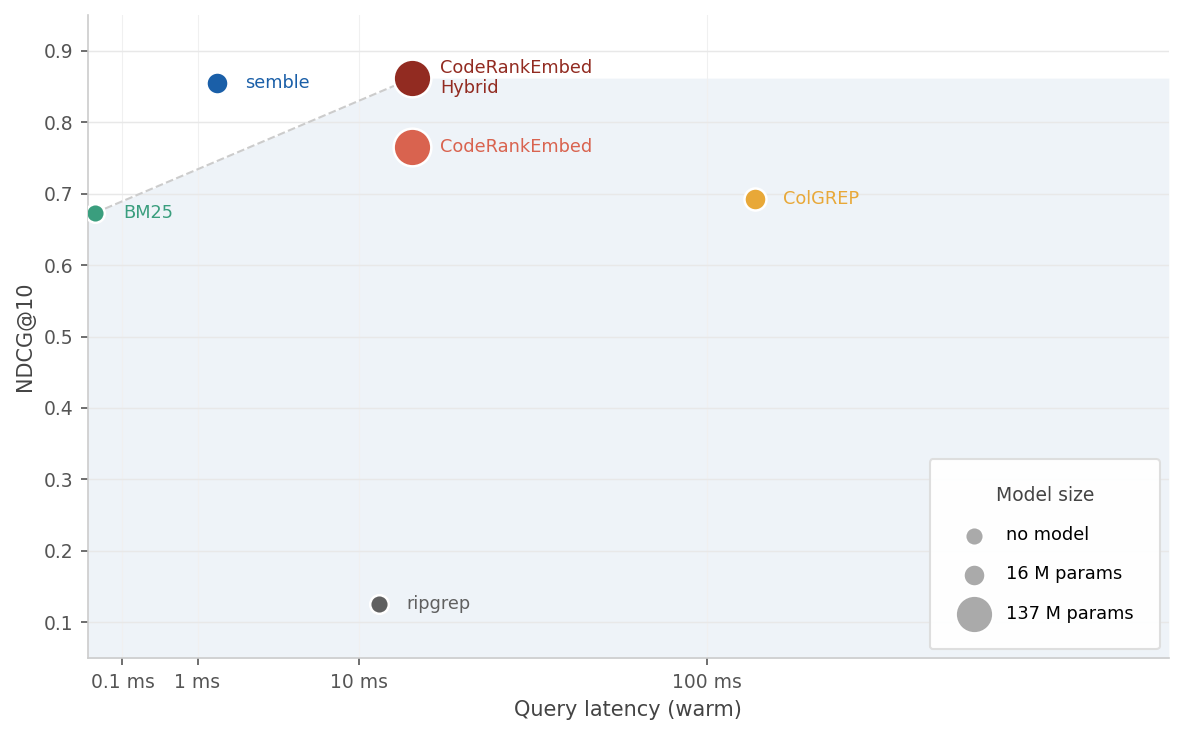
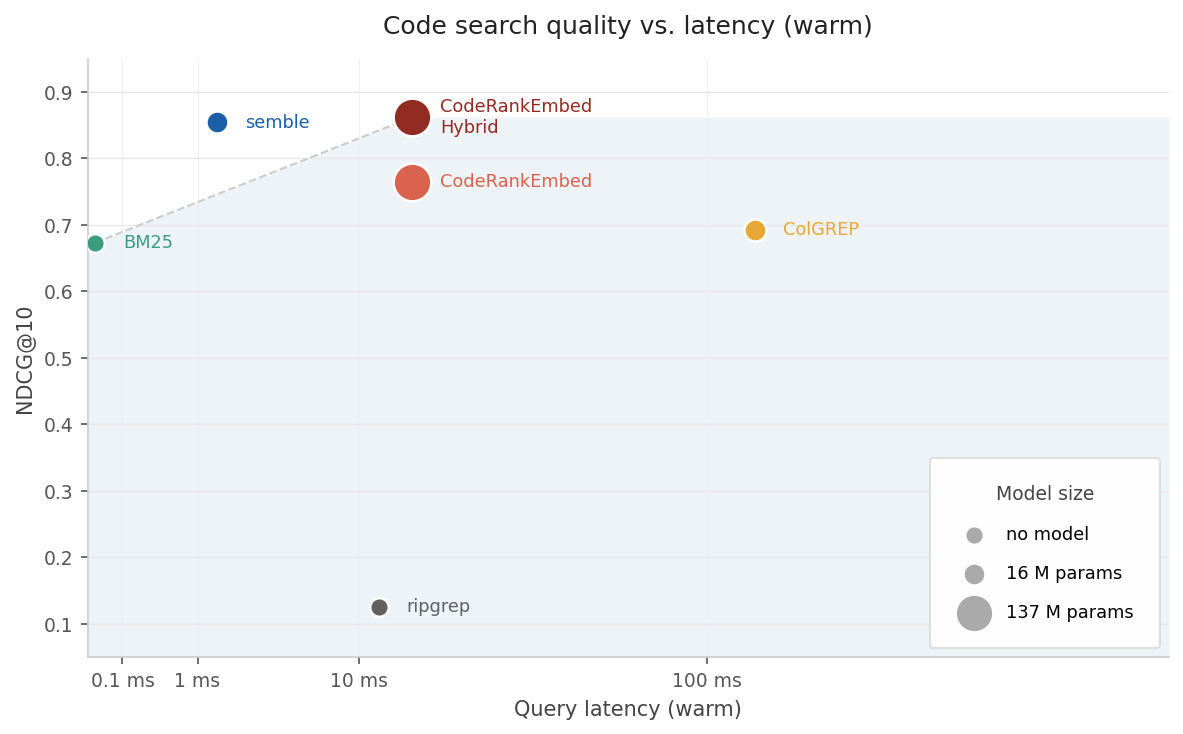
Add titles to plots

diff --git a/benchmarks/plot.py b/benchmarks/plot.py
@@ -110,7 +110,8 @@ def _format_ms(v: float, _: object) -> str:
 
 
 def _make_plot(out_path: Path, *, warm: bool = False) -> None:
-    """Generate a speed-vs-quality scatter plot.
+    """
+    Generate a speed-vs-quality scatter plot.
 
     :param out_path: Destination PNG path.
     :param warm: If True, use per-query latency (index pre-built). If False, use index + query latency.
@@ -180,10 +181,12 @@ def _make_plot(out_path: Path, *, warm: bool = False) -> None:
         ax.set_xlabel("Query latency (warm)", fontsize=10, color="#444444")
         ax.set_xlim(0.01, 500)
         ax.set_xticks([0.1, 1, 10, 100])
+        ax.set_title("Code search quality vs. latency (warm)", fontsize=12, color="#222222", pad=12)
     else:
         ax.set_xlabel("Query latency (cold)", fontsize=10, color="#444444")
         ax.set_xlim(5, 200_000)
         ax.set_xticks([100, 1_000, 10_000, 100_000])
+        ax.set_title("Code search quality vs. latency (cold)", fontsize=12, color="#222222", pad=12)
 
     ax.xaxis.set_major_formatter(ticker.FuncFormatter(_format_ms))
     ax.tick_params(labelsize=9, colors="#555555")
